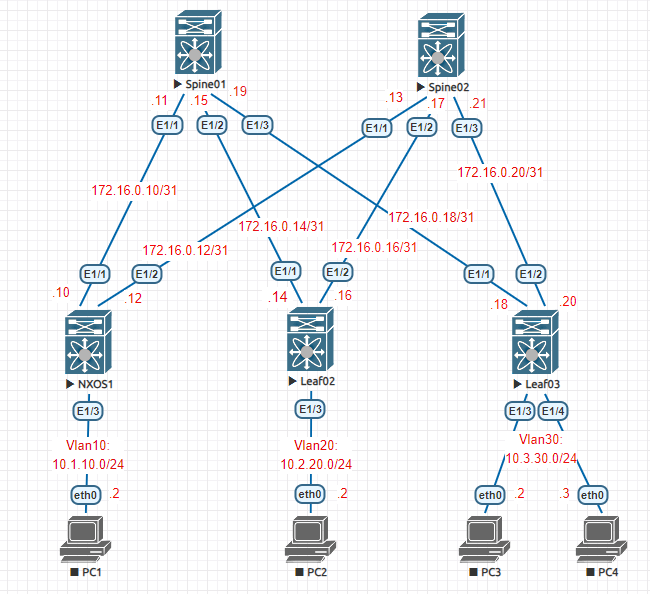
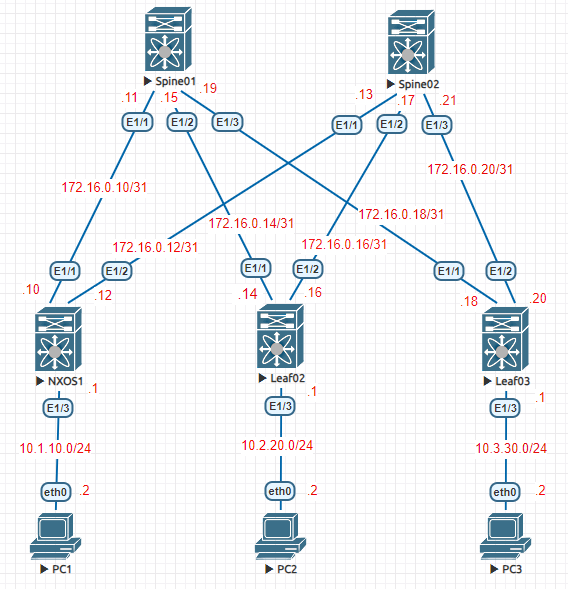
12qwe

Changed region(s): [[0.0299, 0.0, 0.9577, 0.9779], [0.419, 0.3056, 0.4489, 0.3362], [0.0299, 0.7334, 0.0599, 0.764]]

diff --git a/lab02/README.md b/lab02/README.md
@@ -20,13 +20,13 @@
 |               | Ethernet3 | 172.16.0.21  | /31  |
 | Leaf01        | Ethernet1 | 172.16.0.10  | /31  |
 |               | Ethernet2 | 172.16.0.12  | /31  |
-|               | vlan10    | 10.1.10.1    | /24  |
+|               | Ethernet3 | 10.1.10.1    | /24  |
 | Leaf02        | Ethernet1 | 172.16.0.14  | /31  |
 |               | Ethernet2 | 172.16.0.16  | /31  |
-|               | vlan20    | 10.2.20.1    | /24  |
+|               | Ethernet3 | 10.2.20.1    | /24  |
 | Leaf03        | Ethernet1 | 172.16.0.18  | /31  |
 |               | Ethernet2 | 172.16.0.20  | /31  |
-|               | vlan30    | 10.3.30.1    | /24  |
+|               | Ethernet3 | 10.3.30.1    | /24  |
 | PC1           | Ethernet0 | 10.1.10.2    | /24  |
 | PC2           | Ethernet0 | 10.2.20.2    | /24  |
 | PC3           | Ethernet0 | 10.3.30.2    | /24  |
@@ -128,6 +128,10 @@ interface Ethernet1/2
   no ip ospf passive-interface
   ip router ospf 1 area 0.0.0.0
   no shutdown
+interface Ethernet1/3
+  no switchport
+  ip address 10.1.10.1/24
+  no shutdown
 router ospf 1
   router-id 10.10.10.1
   area 0.0.0.0 range 10.1.10.0/24
@@ -156,6 +160,10 @@ interface Ethernet1/2
   no ip ospf passive-interface
   ip router ospf 1 area 0.0.0.0
   no shutdown
+interface Ethernet1/3
+  no switchport
+  ip address 10.2.20.1/24
+  no shutdown
 router ospf 1
   router-id 10.10.10.2
   area 0.0.0.0 range 10.2.20.0/24
@@ -183,6 +191,10 @@ interface Ethernet1/2
   ip ospf network point-to-point
   no ip ospf passive-interface
   ip router ospf 1 area 0.0.0.0
+  no shutdown
+interface Ethernet1/3
+  no switchport
+  ip address 10.3.30.1/24
   no shutdown
 router ospf 1
   router-id 10.10.10.3
